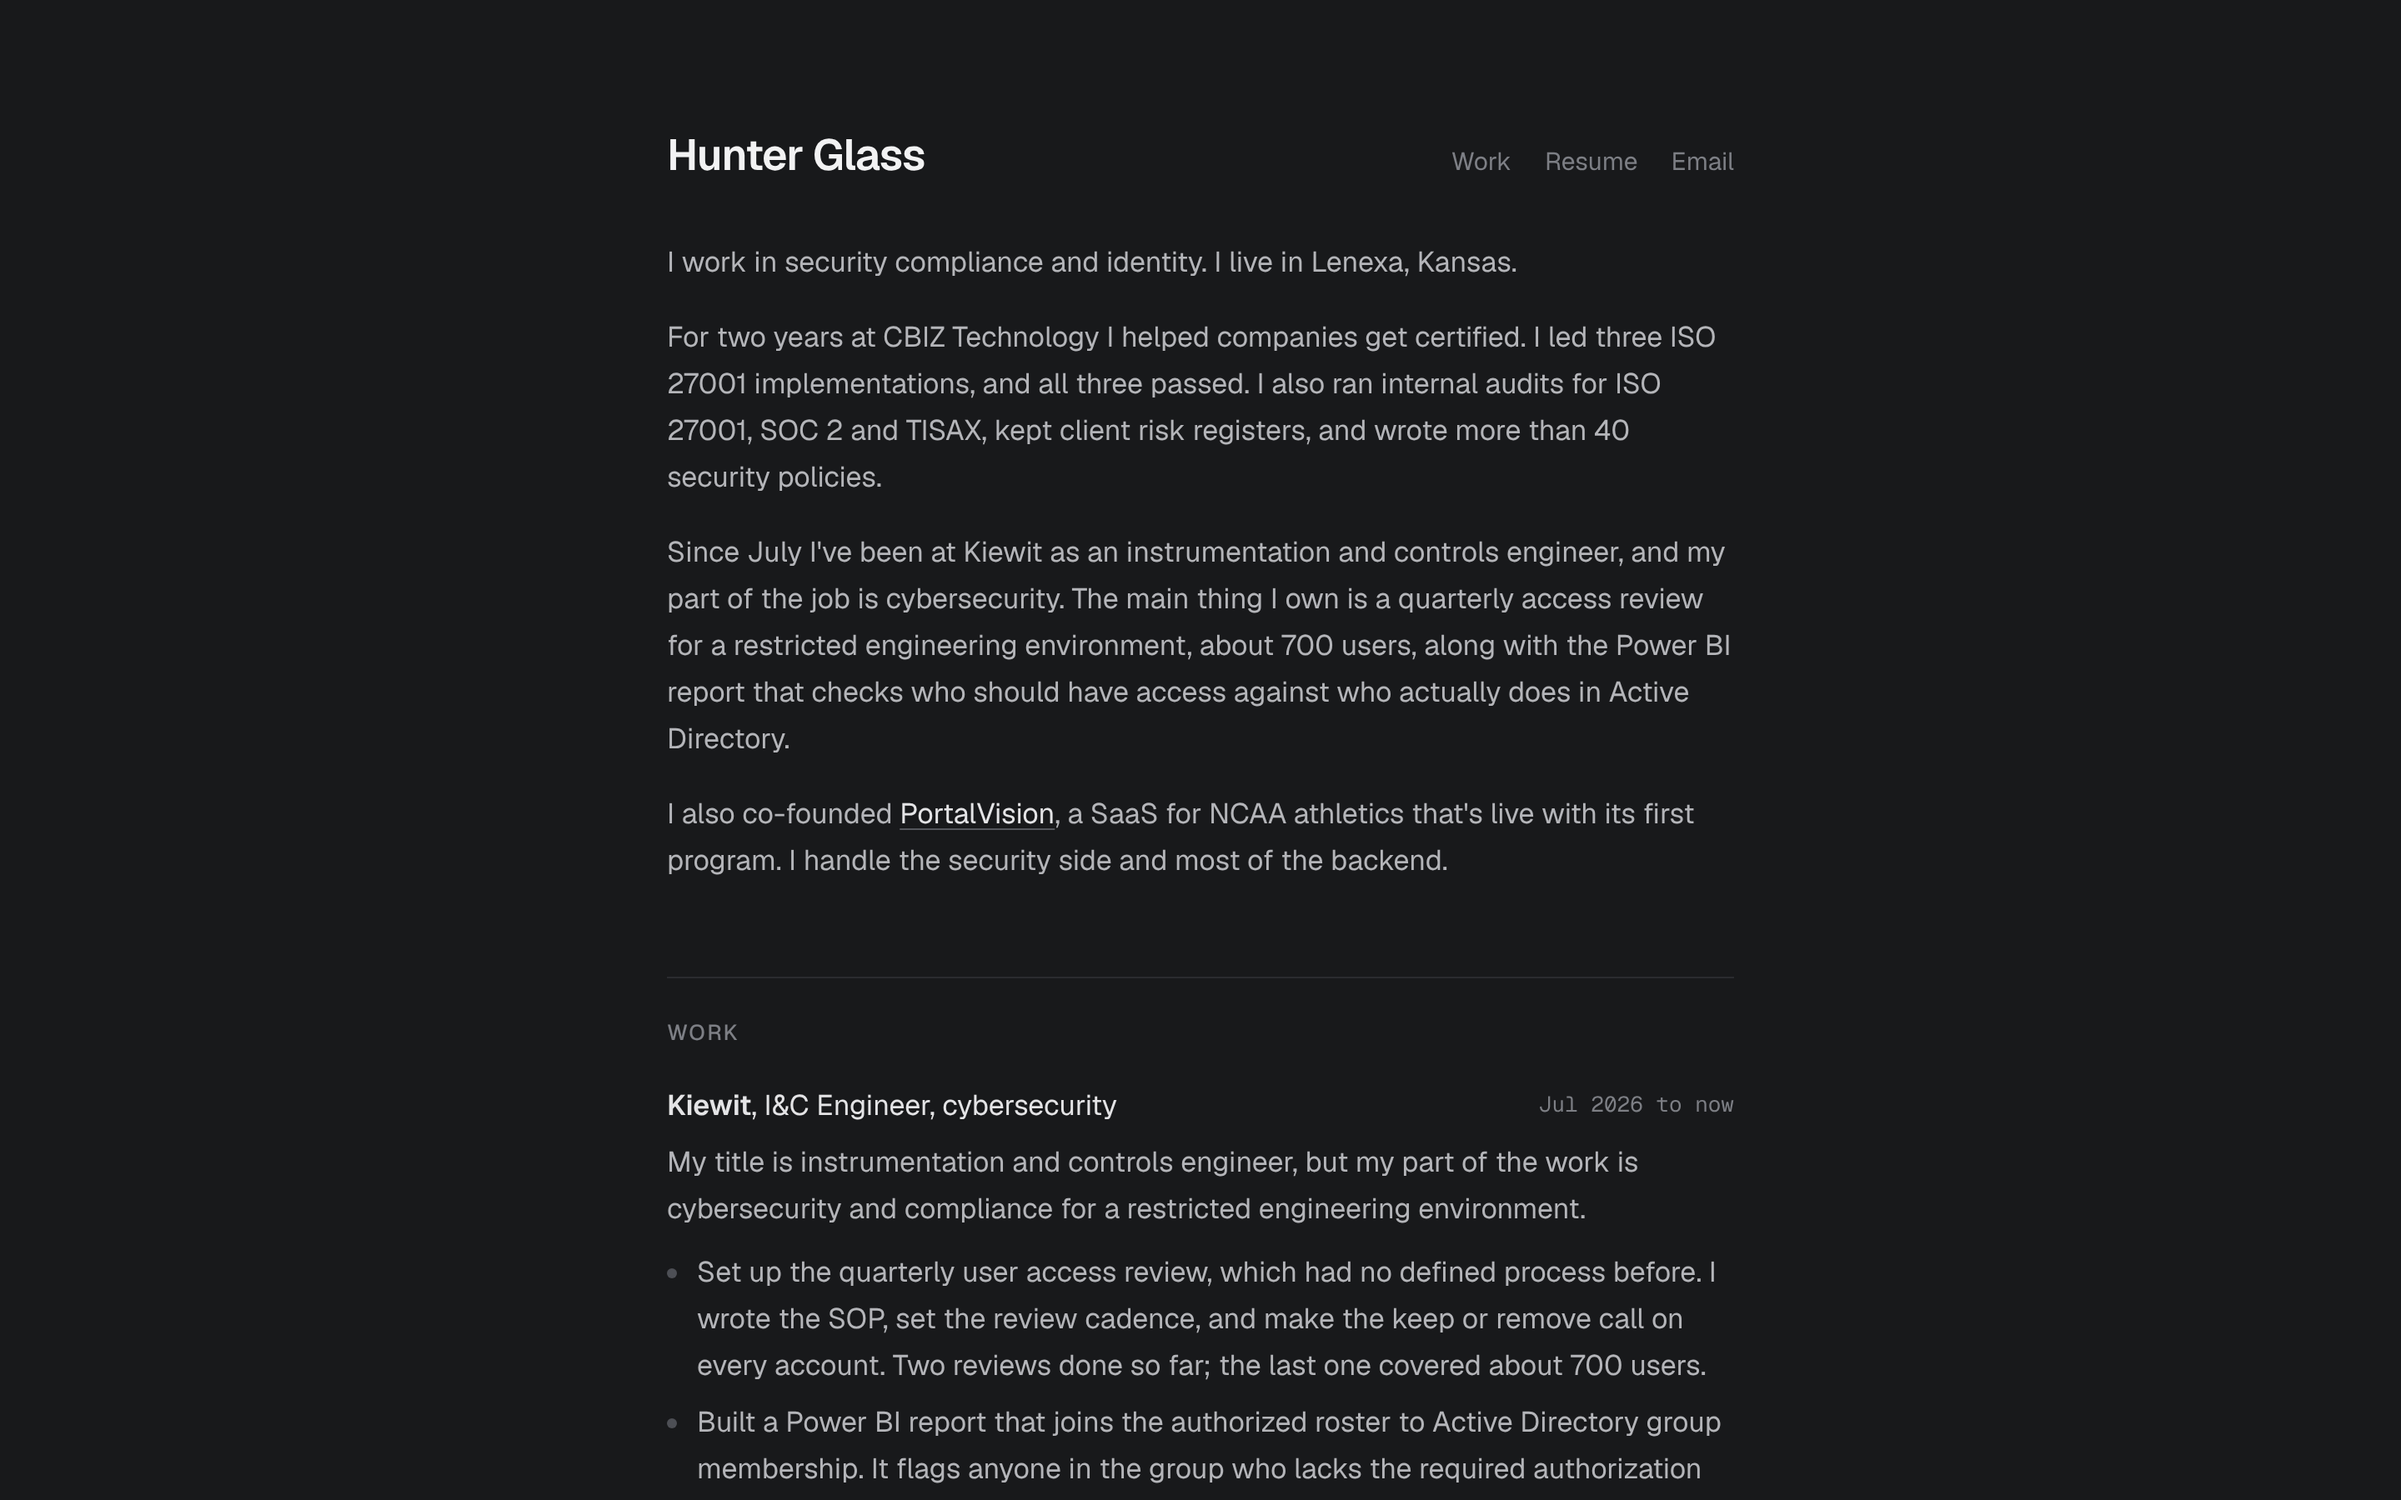
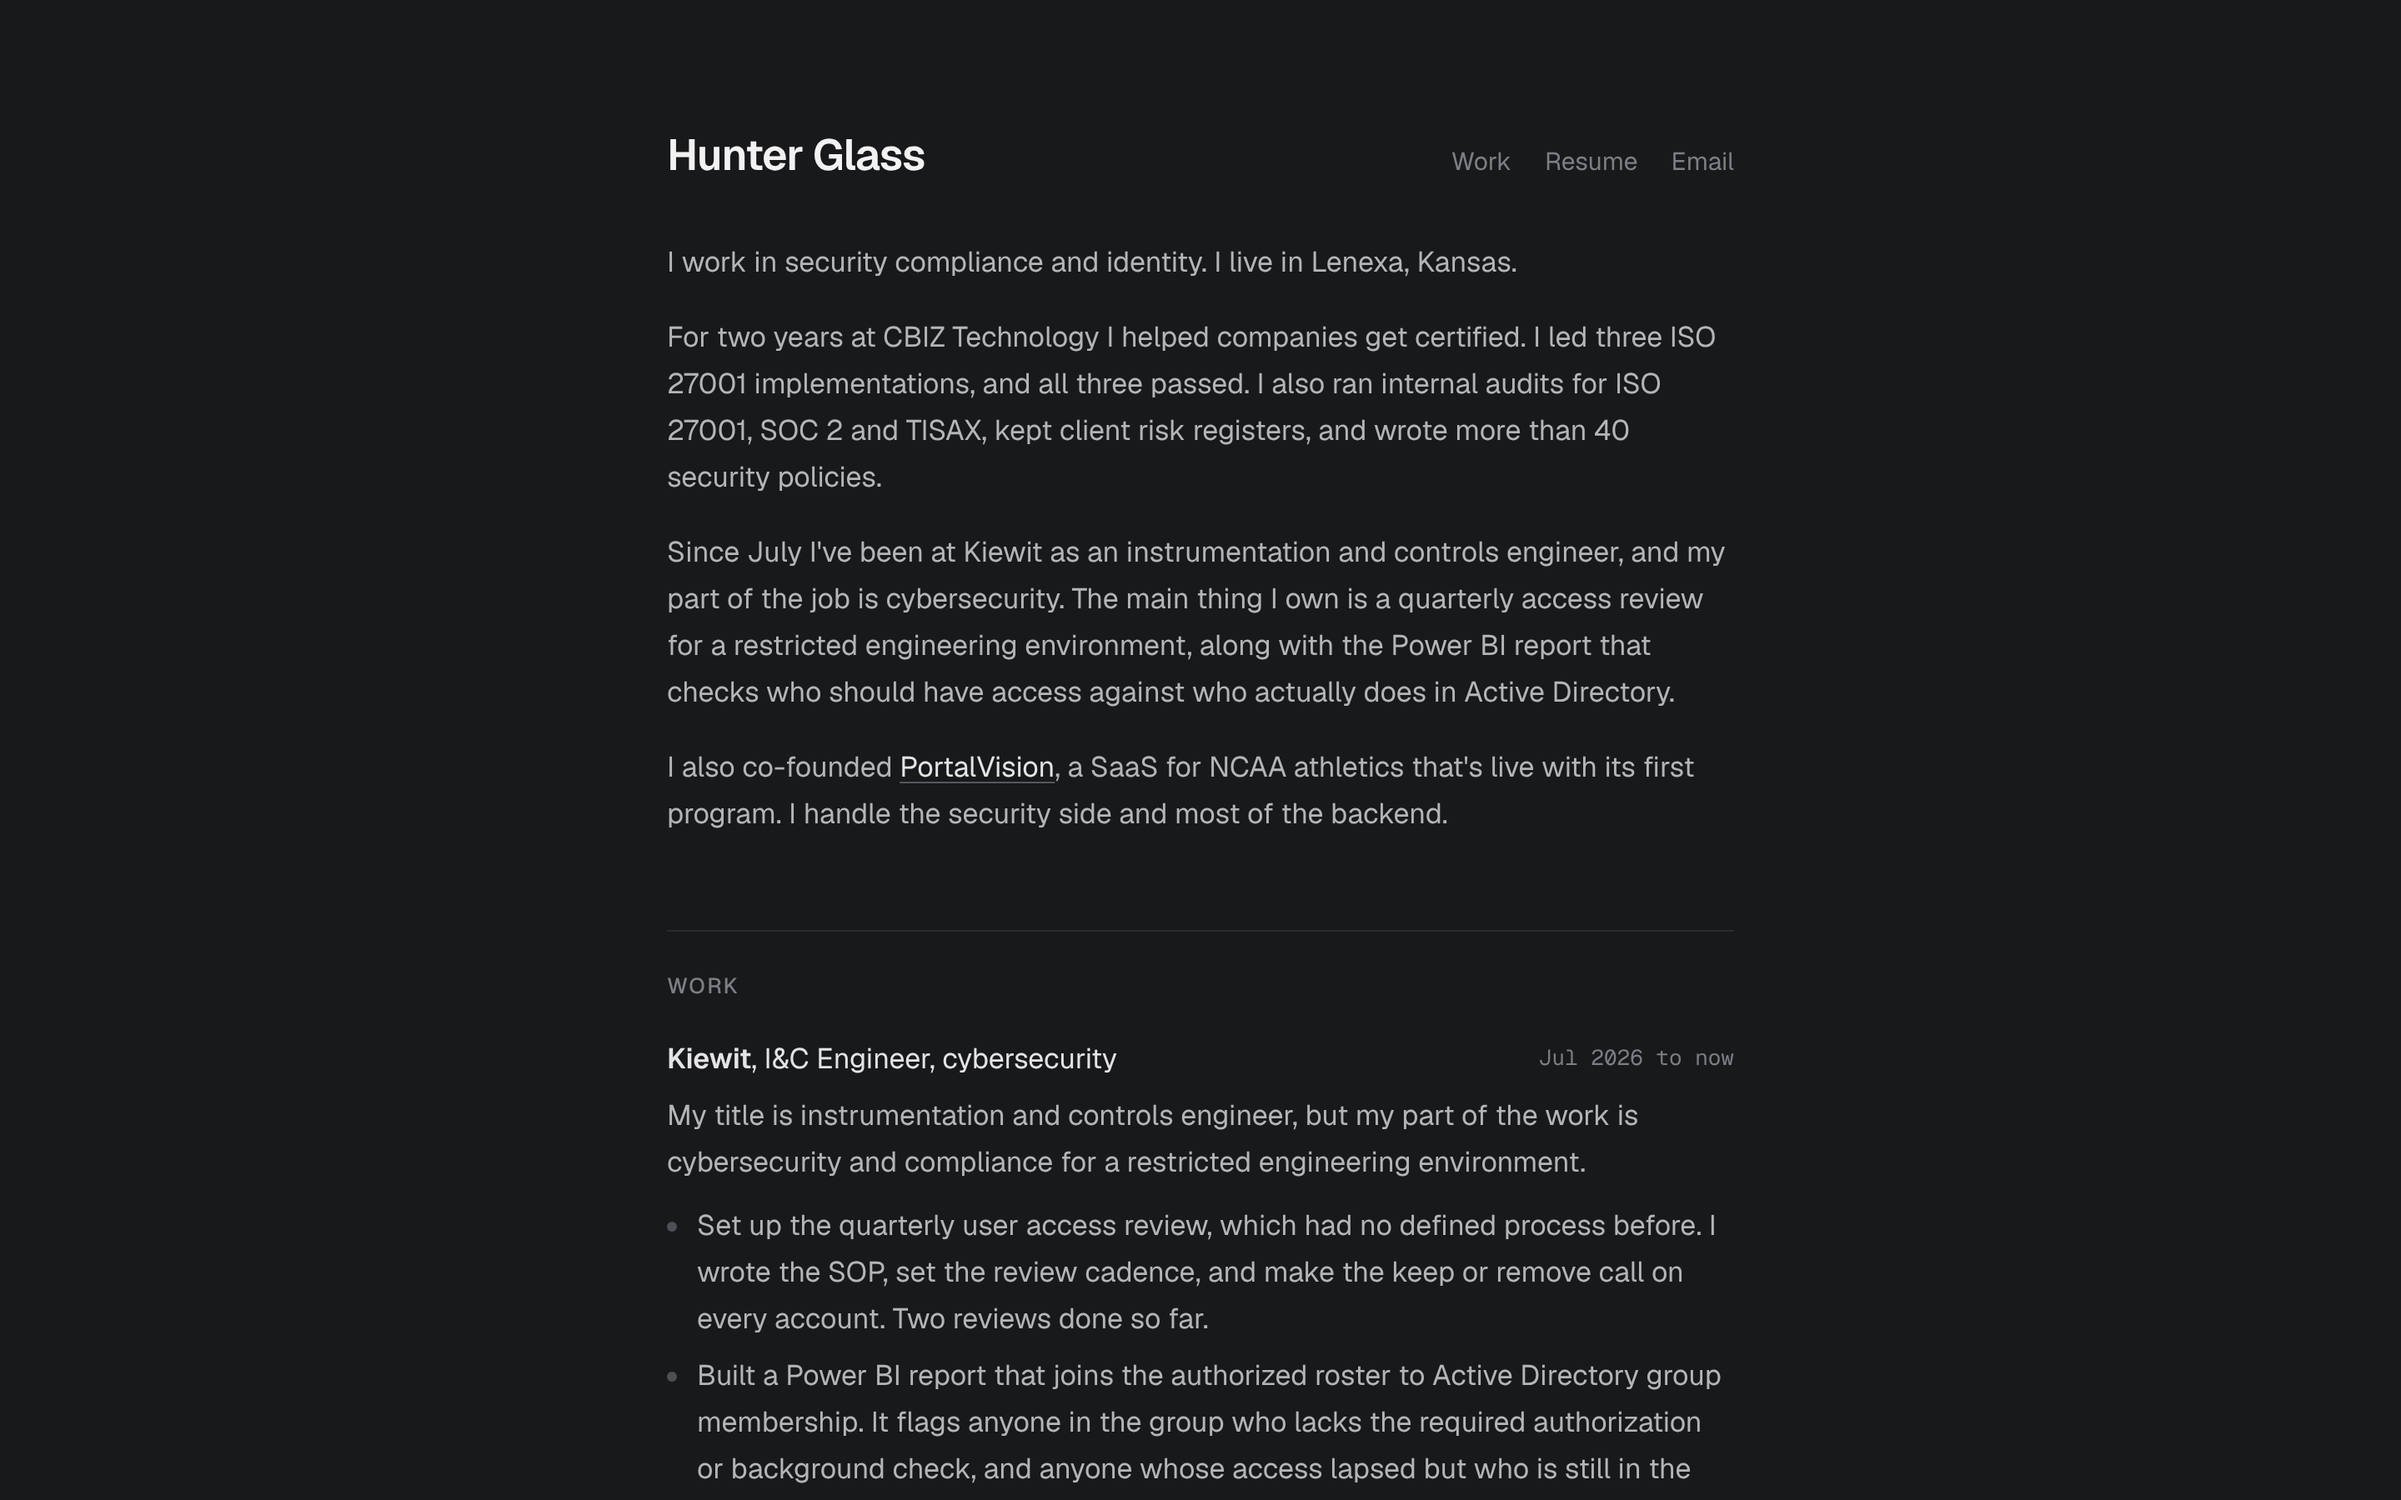
v2 mockup: drop access review user count, add Satcom Direct internship
Claude-Session: https://claude.ai/code/session_01DpS9wjtpXu1pRZzCnkWoig

Changed region(s): [[0.2812, 0.6533, 0.7188, 0.9956], [0.2812, 0.4044, 0.7188, 0.5911]]

diff --git a/mockup/v2/index.html b/mockup/v2/index.html
@@ -93,7 +93,7 @@
     <p>
       Since July I've been at Kiewit as an instrumentation and controls engineer, and my part of the
       job is cybersecurity. The main thing I own is a quarterly access review for a restricted
-      engineering environment, about 700 users, along with the Power BI report that checks who should
+      engineering environment, along with the Power BI report that checks who should
       have access against who actually does in Active Directory.
     </p>
     <p>
@@ -107,7 +107,7 @@
       <div class="job__top"><span><b>Kiewit</b>, I&amp;C Engineer, cybersecurity</span><span class="when">Jul 2026 to now</span></div>
       <p>My title is instrumentation and controls engineer, but my part of the work is cybersecurity and compliance for a restricted engineering environment.</p>
       <ul>
-        <li>Set up the quarterly user access review, which had no defined process before. I wrote the SOP, set the review cadence, and make the keep or remove call on every account. Two reviews done so far; the last one covered about 700 users.</li>
+        <li>Set up the quarterly user access review, which had no defined process before. I wrote the SOP, set the review cadence, and make the keep or remove call on every account. Two reviews done so far.</li>
         <li>Built a Power BI report that joins the authorized roster to Active Directory group membership. It flags anyone in the group who lacks the required authorization or background check, and anyone whose access lapsed but who is still in the group, then routes each removal to their manager or a ticket.</li>
         <li>Maintain the company's compliance documentation set.</li>
         <li>Act as the cybersecurity reviewer on client contracts: I answer the security questions and send clients feedback on their security requirements.</li>
@@ -149,6 +149,14 @@
       <div class="job__top"><span><b>CBIZ</b>, IT / Internal Audit Intern</span><span class="when">2024</span></div>
       <ul>
         <li>Tested cybersecurity controls and IT general controls against FDICIA and SOX, and wrote up the high-risk findings in priority order for clients to fix.</li>
+      </ul>
+    </div>
+
+    <div class="job">
+      <div class="job__top"><span><b>Satcom Direct</b>, Information Security / Software Engineering Intern</span><span class="when">Summers 2020, 2021</span></div>
+      <ul>
+        <li>Prototyped an OWASP Dependency-Track integration for the CI/CD pipeline to flag vulnerable third-party components before they shipped.</li>
+        <li>Worked on the backend and frontend of a SaaS flight-planning platform used by corporate and private aviation customers.</li>
       </ul>
     </div>
 
